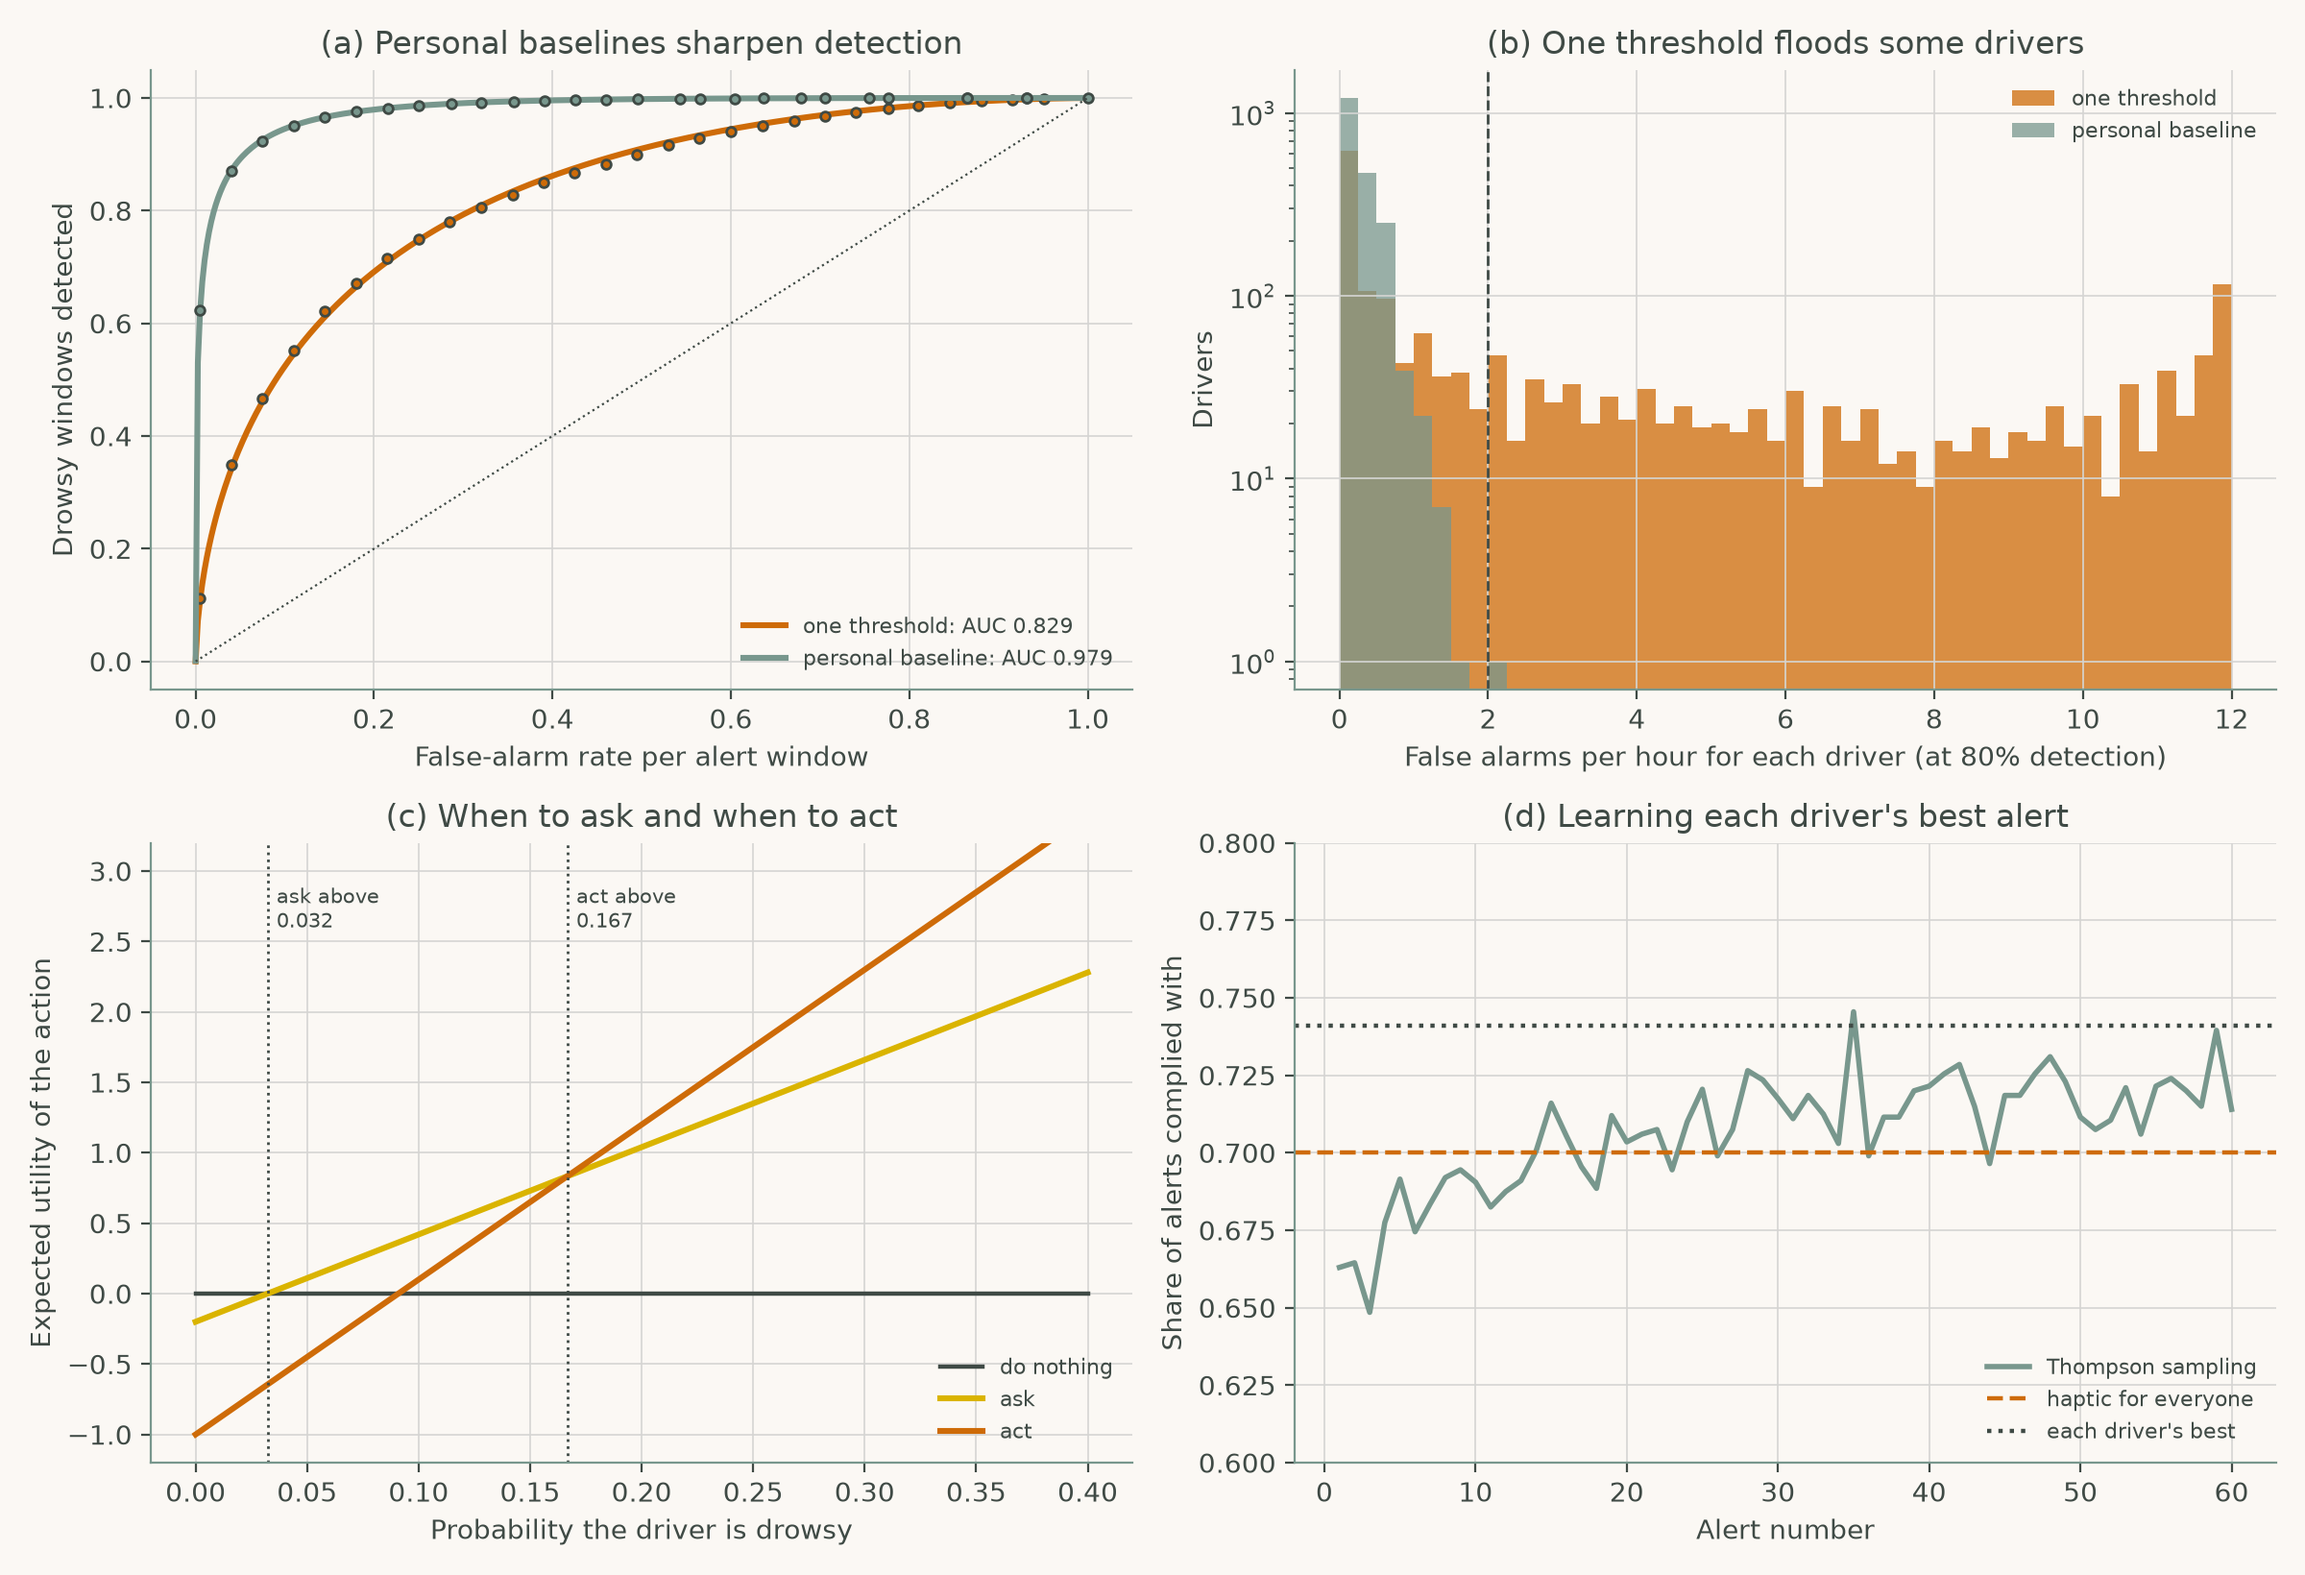
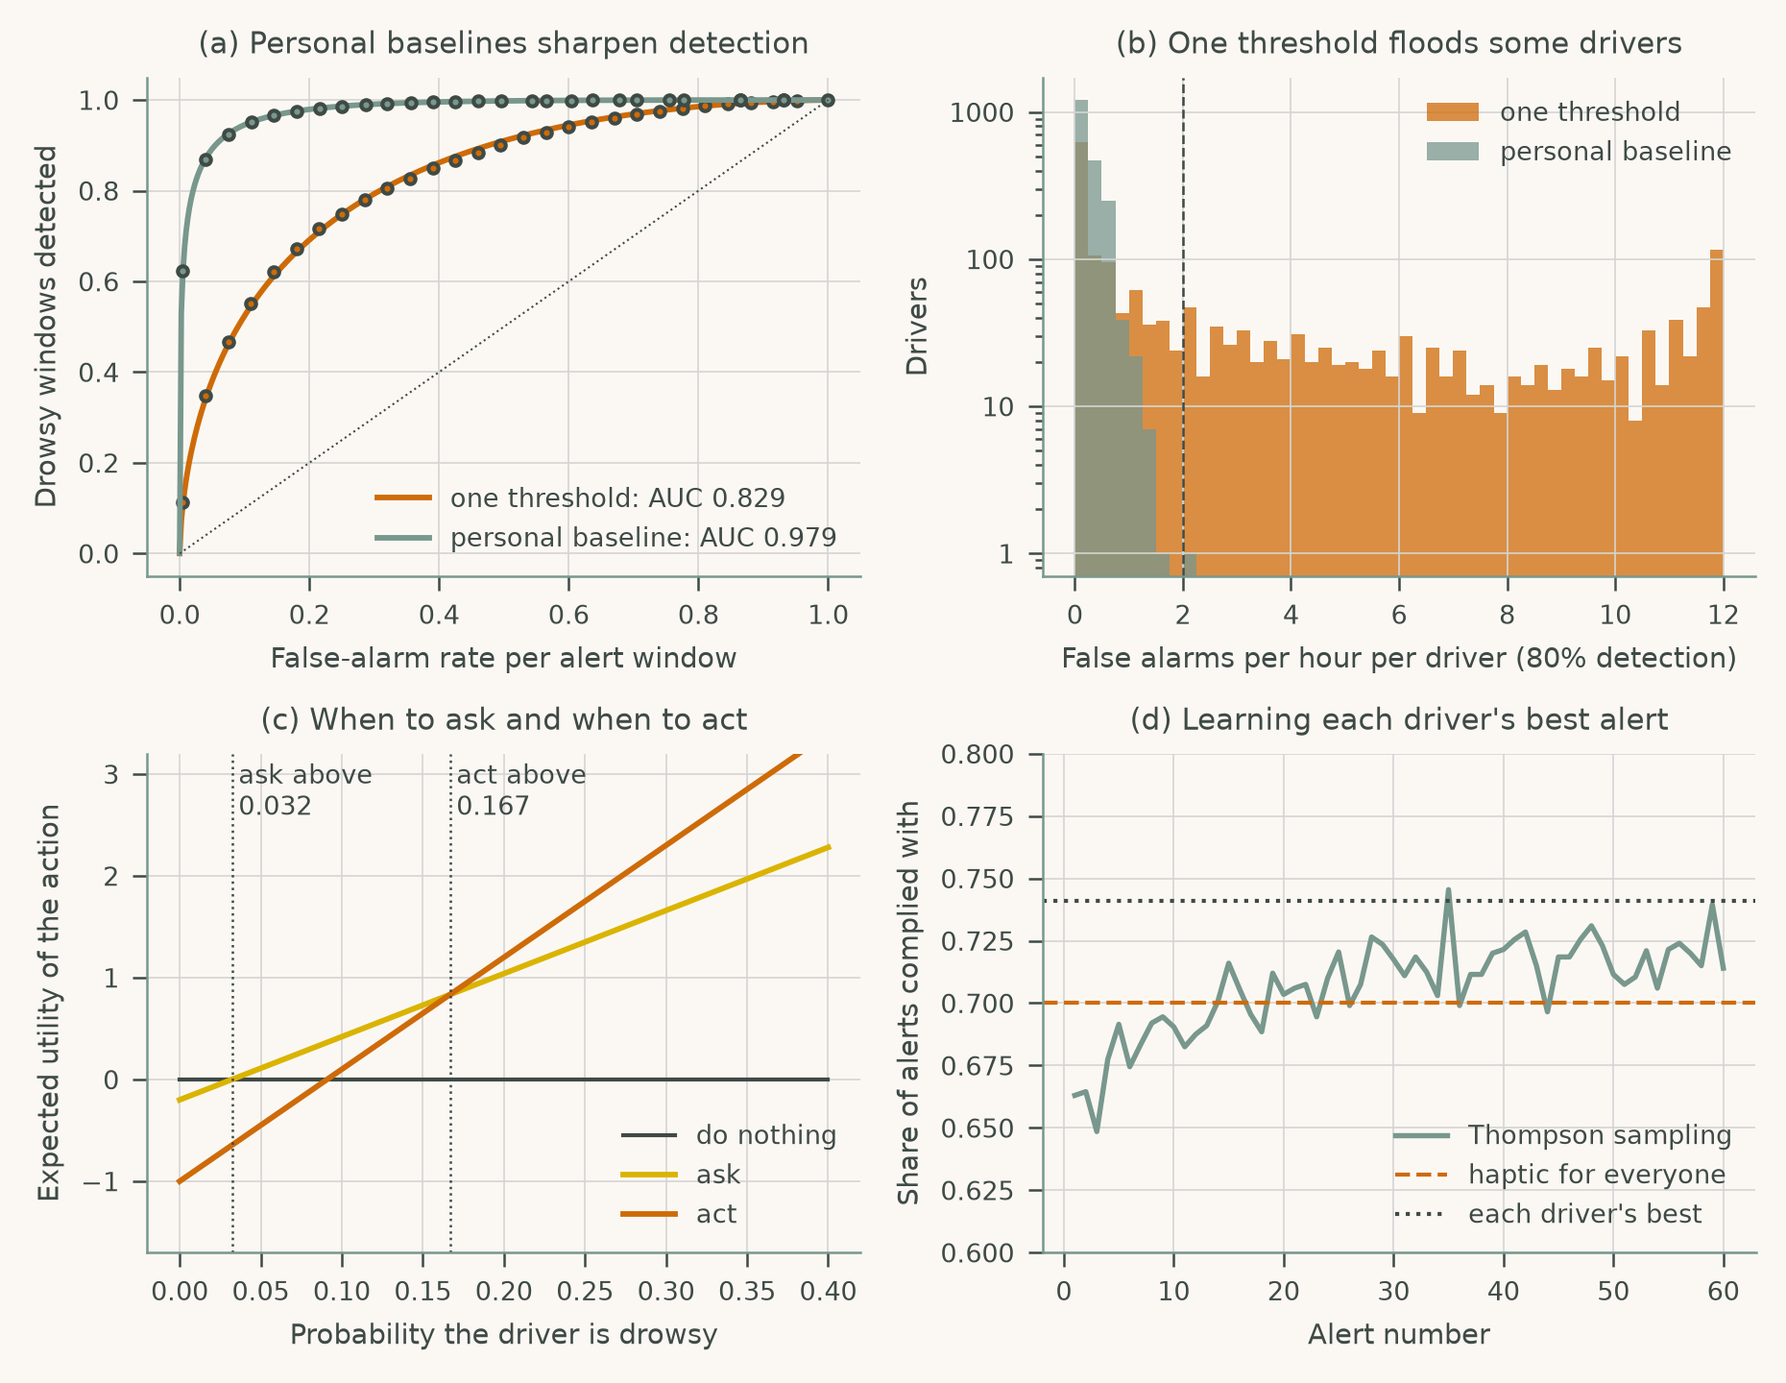
Redraw Chapter 11 figures at print size with readable type

diff --git a/chapters/ch11_emerging_directions/cs2_vr_training.py b/chapters/ch11_emerging_directions/cs2_vr_training.py
@@ -137,55 +137,59 @@ plt.rcParams.update({
     "xtick.color": INK, "ytick.color": INK,
     "figure.facecolor": PAPER, "axes.facecolor": PAPER,
     "axes.spines.top": False, "axes.spines.right": False,
-    "axes.grid": True, "grid.color": GRID, "grid.linewidth": 0.6})
-fig, ax = plt.subplots(2, 2, figsize=(12, 8.2))
+    "axes.grid": True, "grid.color": GRID, "grid.linewidth": 0.4,
+    "font.size": 7, "axes.titlesize": 7.5, "axes.labelsize": 7, "legend.fontsize": 6.5,
+    "xtick.labelsize": 6.5, "ytick.labelsize": 6.5, "axes.linewidth": 0.6,
+    "xtick.major.width": 0.6, "ytick.major.width": 0.6, "lines.linewidth": 1.2,
+    "legend.frameon": False})
+fig, ax = plt.subplots(2, 2, figsize=(6.2, 4.8))
 a = ax[0, 0]                                                   # (a) two estimands
 for k, (lab, col) in enumerate([("intention to treat", SAGE), ("per protocol", GOLD)]):
     r = res[res.analysis == lab]
     x = np.arange(2) + (k - 0.5) * 0.3
     a.errorbar(x, r.effect, yerr=[r.effect - r.lo, r.hi - r.effect], fmt="o", color=col,
-               mec=INK, ms=7, capsize=3, ecolor=INK, label=lab)
-    a.plot(x, r.true_value, "_", color=RUST, ms=22, mew=2.4)
-a.plot([], [], "_", color=RUST, ms=14, mew=2.4, label="true value")
+               mec=INK, ms=4.5, capsize=1.9, ecolor=INK, label=lab)
+    a.plot(x, r.true_value, "_", color=RUST, ms=14.2, mew=1.6)
+a.plot([], [], "_", color=RUST, ms=9, mew=1.6, label="true value")
 a.set_xticks([0, 1], ["VR hazard test", "on-road test"])
 a.set(ylabel="Training effect (percentage points)", ylim=(0, 20),
       title="(a) Effect of offering training vs. of completing it")
-a.legend(fontsize=8, frameon=False, loc="upper right")
+a.legend(fontsize=6.5, loc="upper right")
 a = ax[0, 1]                                                   # (b) sickness and dropout
 ss = np.linspace(0, 120, 300)
-a.plot(ss, expit(-3.2 + 0.06 * ss), color=RUST, lw=2.2, label="probability of stopping")
+a.plot(ss, expit(-3.2 + 0.06 * ss), color=RUST, lw=1.4, label="probability of stopping")
 t = vr == 1
-a.plot(ssq[t & ~drop], np.full((t & ~drop).sum(), -0.04), "|", color=SAGE, ms=12,
+a.plot(ssq[t & ~drop], np.full((t & ~drop).sum(), -0.04), "|", color=SAGE, ms=7.8,
        label="trainees who completed")
-a.plot(ssq[t & drop], np.full((t & drop).sum(), -0.09), "|", color=RUST, ms=12,
+a.plot(ssq[t & drop], np.full((t & drop).sum(), -0.09), "|", color=RUST, ms=7.8,
        label="trainees who stopped")
 a.set(xlim=(0, 120), ylim=(-0.13, 1), xlabel="Simulator sickness score (SSQ total)",
       ylabel="Probability of stopping training", title="(b) Sickness drives dropout")
-a.legend(fontsize=8, frameon=False, loc="upper left")
+a.legend(fontsize=6.5, loc="upper left")
 a = ax[1, 0]                                                   # (c) road learning curves
 hh = np.linspace(0, 8, 300)
 for start, col, lab, h in [(s0, RUST, "no VR training", h_c),
                            (s0 + g_road, SAGE, f"after {X:.0f} h of VR", h_x)]:
-    a.plot(hh, S_INF - (S_INF - start) * np.exp(-hh / TAU), color=col, lw=2.2, label=lab)
-    a.plot(h, CRIT, "o", color=col, mec=INK, ms=7)
-a.axhline(CRIT, color=INK, ls="--", lw=1)
+    a.plot(hh, S_INF - (S_INF - start) * np.exp(-hh / TAU), color=col, lw=1.4, label=lab)
+    a.plot(h, CRIT, "o", color=col, mec=INK, ms=4.5)
+a.axhline(CRIT, color=INK, ls="--", lw=0.6)
 a.annotate("", (h_x, CRIT), (h_c, CRIT),
-           arrowprops=dict(arrowstyle="<->", color=INK, lw=1.2))
+           arrowprops=dict(arrowstyle="<->", color=INK, lw=0.8))
 a.text(h_c + 0.25, CRIT - 3.5, f"{h_c - h_x:.2f} road hours saved", ha="left", va="top",
-       fontsize=8)
+       fontsize=6.5)
 a.set(xlabel="Supervised road practice (h)", ylabel="Hazards anticipated (%)",
       title=f"(c) Transfer: TER = {(h_c - h_x) / X:.2f} for {X:.0f} VR hours")
-a.legend(fontsize=8, frameon=False, loc="lower right")
+a.legend(fontsize=6.5, loc="lower right")
 a = ax[1, 1]                                                   # (d) retention
 tt = np.linspace(0, 12, 200)
-a.plot(months, adv, "o", color=INK, ms=7, label="trained minus control, by month")
+a.plot(months, adv, "o", color=INK, ms=4.5, label="trained minus control, by month")
 a.plot(tt, np.exp(np.polyfit(months, np.log(adv), 1)[1]) * np.exp(-k_log * tt), color=GOLD,
-       lw=2, label=f"log-linear fit: half-life {np.log(2) / k_log:.1f} months")
-a.plot(tt, g0 * np.exp(-k_nls * tt), color=SAGE, lw=2, ls="--",
+       lw=1.3, label=f"log-linear fit: half-life {np.log(2) / k_log:.1f} months")
+a.plot(tt, g0 * np.exp(-k_nls * tt), color=SAGE, lw=1.3, ls="--",
        label=f"nonlinear fit: half-life {np.log(2) / k_nls:.1f} months")
-a.plot(tt, EFFECT * np.exp(-np.log(2) / HALF * tt), color=RUST, lw=1.2, ls=":",
+a.plot(tt, EFFECT * np.exp(-np.log(2) / HALF * tt), color=RUST, lw=0.8, ls=":",
        label=f"true decay: half-life {HALF:.0f} months")
 a.set(xlabel="Months after training", ylabel="Advantage of trained drivers (points)",
       ylim=(0, 20), title="(d) Skills decay without practice")
-a.legend(fontsize=8, frameon=False, loc="upper right")
-fig.tight_layout(); fig.savefig("chap11_fig02_vr_training.png", dpi=200)
+a.legend(fontsize=6.5, loc="upper right")
+fig.tight_layout(); fig.savefig("chap11_fig02_vr_training.png", dpi=300)

diff --git a/chapters/ch11_emerging_directions/cs1_adaptive_copilot.py b/chapters/ch11_emerging_directions/cs1_adaptive_copilot.py
@@ -151,51 +151,56 @@ plt.rcParams.update({
     "xtick.color": INK, "ytick.color": INK,
     "figure.facecolor": PAPER, "axes.facecolor": PAPER,
     "axes.spines.top": False, "axes.spines.right": False,
-    "axes.grid": True, "grid.color": GRID, "grid.linewidth": 0.6})
-fig, ax = plt.subplots(2, 2, figsize=(12, 8.2))
+    "axes.grid": True, "grid.color": GRID, "grid.linewidth": 0.4,
+    "font.size": 7, "axes.titlesize": 7.5, "axes.labelsize": 7, "legend.fontsize": 6.5,
+    "xtick.labelsize": 6.5, "ytick.labelsize": 6.5, "axes.linewidth": 0.6,
+    "xtick.major.width": 0.6, "ytick.major.width": 0.6, "lines.linewidth": 1.2,
+    "legend.frameon": False})
+fig, ax = plt.subplots(2, 2, figsize=(6.2, 4.8))
 a = ax[0, 0]                                                   # (a) ROC
 fpr = np.linspace(0, 1, 400)
 for name, col in [("one threshold", RUST), ("personal baseline", SAGE)]:
     sd = np.sqrt(V[name])
     tpr = stats.norm.sf(stats.norm.isf(np.clip(fpr, 1e-9, 1)) - DELTA / sd)
     a.plot(fpr, tpr, color=col,
-           lw=2.2, label=f"{name}: AUC {stats.norm.cdf(DELTA / np.sqrt(2 * V[name])):.3f}")
+           lw=1.4, label=f"{name}: AUC {stats.norm.cdf(DELTA / np.sqrt(2 * V[name])):.3f}")
     al, dr = score[name]
     idx = rng.choice(al.size, 20_000, replace=False)       # windows from all drivers
     f_, t_, _ = roc_curve(np.r_[np.zeros(20_000), np.ones(20_000)],
                           np.r_[al.ravel()[idx], dr.ravel()[idx]])
     keep = np.searchsorted(f_, np.linspace(0.005, 0.95, 28))
-    a.plot(f_[keep], t_[keep], "o", color=col, mec=INK, ms=3.5)
-a.plot([0, 1], [0, 1], color=INK, lw=0.8, ls=":")
+    a.plot(f_[keep], t_[keep], "o", color=col, mec=INK, ms=2.5)
+a.plot([0, 1], [0, 1], color=INK, lw=0.5, ls=":")
 a.set(xlabel="False-alarm rate per alert window", ylabel="Drowsy windows detected",
       title="(a) Personal baselines sharpen detection")
-a.legend(fontsize=8, frameon=False, loc="lower right")
+a.legend(fontsize=6.5, loc="lower right")
 a = ax[0, 1]                                                   # (b) who gets the alarms
 bins = np.linspace(0, 12, 49)
 a.hist(fa_g, bins, color=RUST, alpha=0.75, label="one threshold")
 a.hist(fa_p, bins, color=SAGE, alpha=0.75, label="personal baseline")
-a.axvline(2, color=INK, ls="--", lw=1)
+a.axvline(2, color=INK, ls="--", lw=0.6)
 a.set_yscale("log")
-a.set(xlabel="False alarms per hour for each driver (at 80% detection)",
+a.yaxis.set_major_formatter(plt.FuncFormatter(lambda v, _: f"{v:g}"))
+a.set(xlabel="False alarms per hour per driver (80% detection)",
       ylabel="Drivers", title="(b) One threshold floods some drivers")
-a.legend(fontsize=8, frameon=False, loc="upper right")
+a.legend(fontsize=6.5, loc="upper right")
 a = ax[1, 0]                                                   # (c) utility of each action
 pp = np.linspace(0, 0.4, 400)
-a.plot(pp, 0 * pp, color=INK, lw=1.6, label="do nothing")
-a.plot(pp, pp * b - (1 - pp) * c, color=GOLD, lw=2.2, label="ask")
-a.plot(pp, pp * B - (1 - pp) * C, color=RUST, lw=2.2, label="act")
+a.plot(pp, 0 * pp, color=INK, lw=1, label="do nothing")
+a.plot(pp, pp * b - (1 - pp) * c, color=GOLD, lw=1.4, label="ask")
+a.plot(pp, pp * B - (1 - pp) * C, color=RUST, lw=1.4, label="act")
 for p_, lab in [(p_ask, "ask"), (p_act, "act")]:
-    a.axvline(p_, color=INK, ls=":", lw=1)
-    a.text(p_ + 0.004, 2.6, f"{lab} above\n{p_:.3f}", fontsize=7.6)
-a.set(ylim=(-1.2, 3.2), xlabel="Probability the driver is drowsy",
+    a.axvline(p_, color=INK, ls=":", lw=0.6)
+    a.text(p_ + 0.004, 2.6, f"{lab} above\n{p_:.3f}", fontsize=6.5)
+a.set(ylim=(-1.7, 3.2), xlabel="Probability the driver is drowsy",
       ylabel="Expected utility of the action", title="(c) When to ask and when to act")
-a.legend(fontsize=8, frameon=False, loc="lower right")
+a.legend(fontsize=6.5, loc="lower right")
 a = ax[1, 1]                                                   # (d) learning a modality
 tt = np.arange(1, T + 1)
-a.plot(tt, got.mean(axis=0), color=SAGE, lw=2, label="Thompson sampling")
-a.axhline(AH / (AH + BH), color=RUST, ls="--", lw=1.6, label="haptic for everyone")
-a.axhline(e_max(), color=INK, ls=":", lw=1.6, label="each driver's best")
+a.plot(tt, got.mean(axis=0), color=SAGE, lw=1.3, label="Thompson sampling")
+a.axhline(AH / (AH + BH), color=RUST, ls="--", lw=1, label="haptic for everyone")
+a.axhline(e_max(), color=INK, ls=":", lw=1, label="each driver's best")
 a.set(ylim=(0.6, 0.8), xlabel="Alert number", ylabel="Share of alerts complied with",
       title="(d) Learning each driver's best alert")
-a.legend(fontsize=8, frameon=False, loc="lower right")
-fig.tight_layout(); fig.savefig("chap11_fig01_copilot.png", dpi=200)
+a.legend(fontsize=6.5, loc="lower right")
+fig.tight_layout(); fig.savefig("chap11_fig01_copilot.png", dpi=300)
